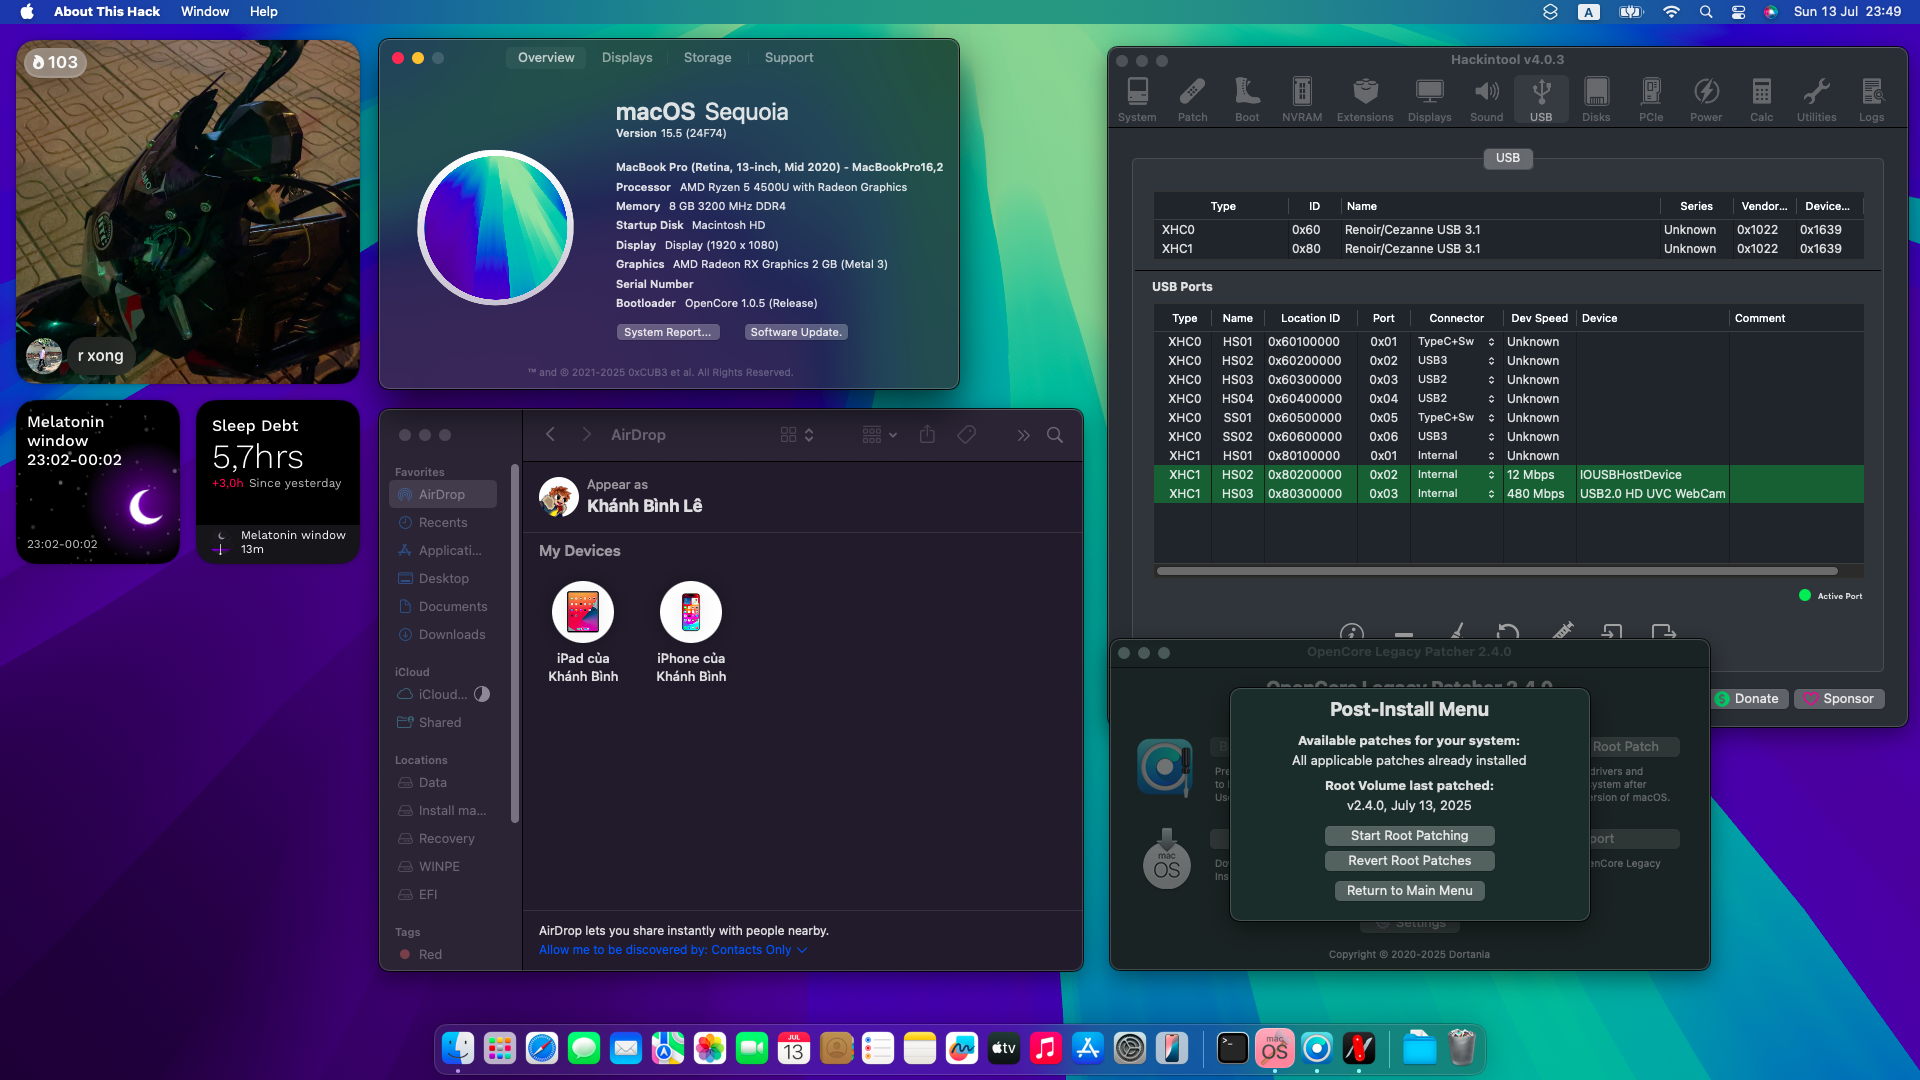
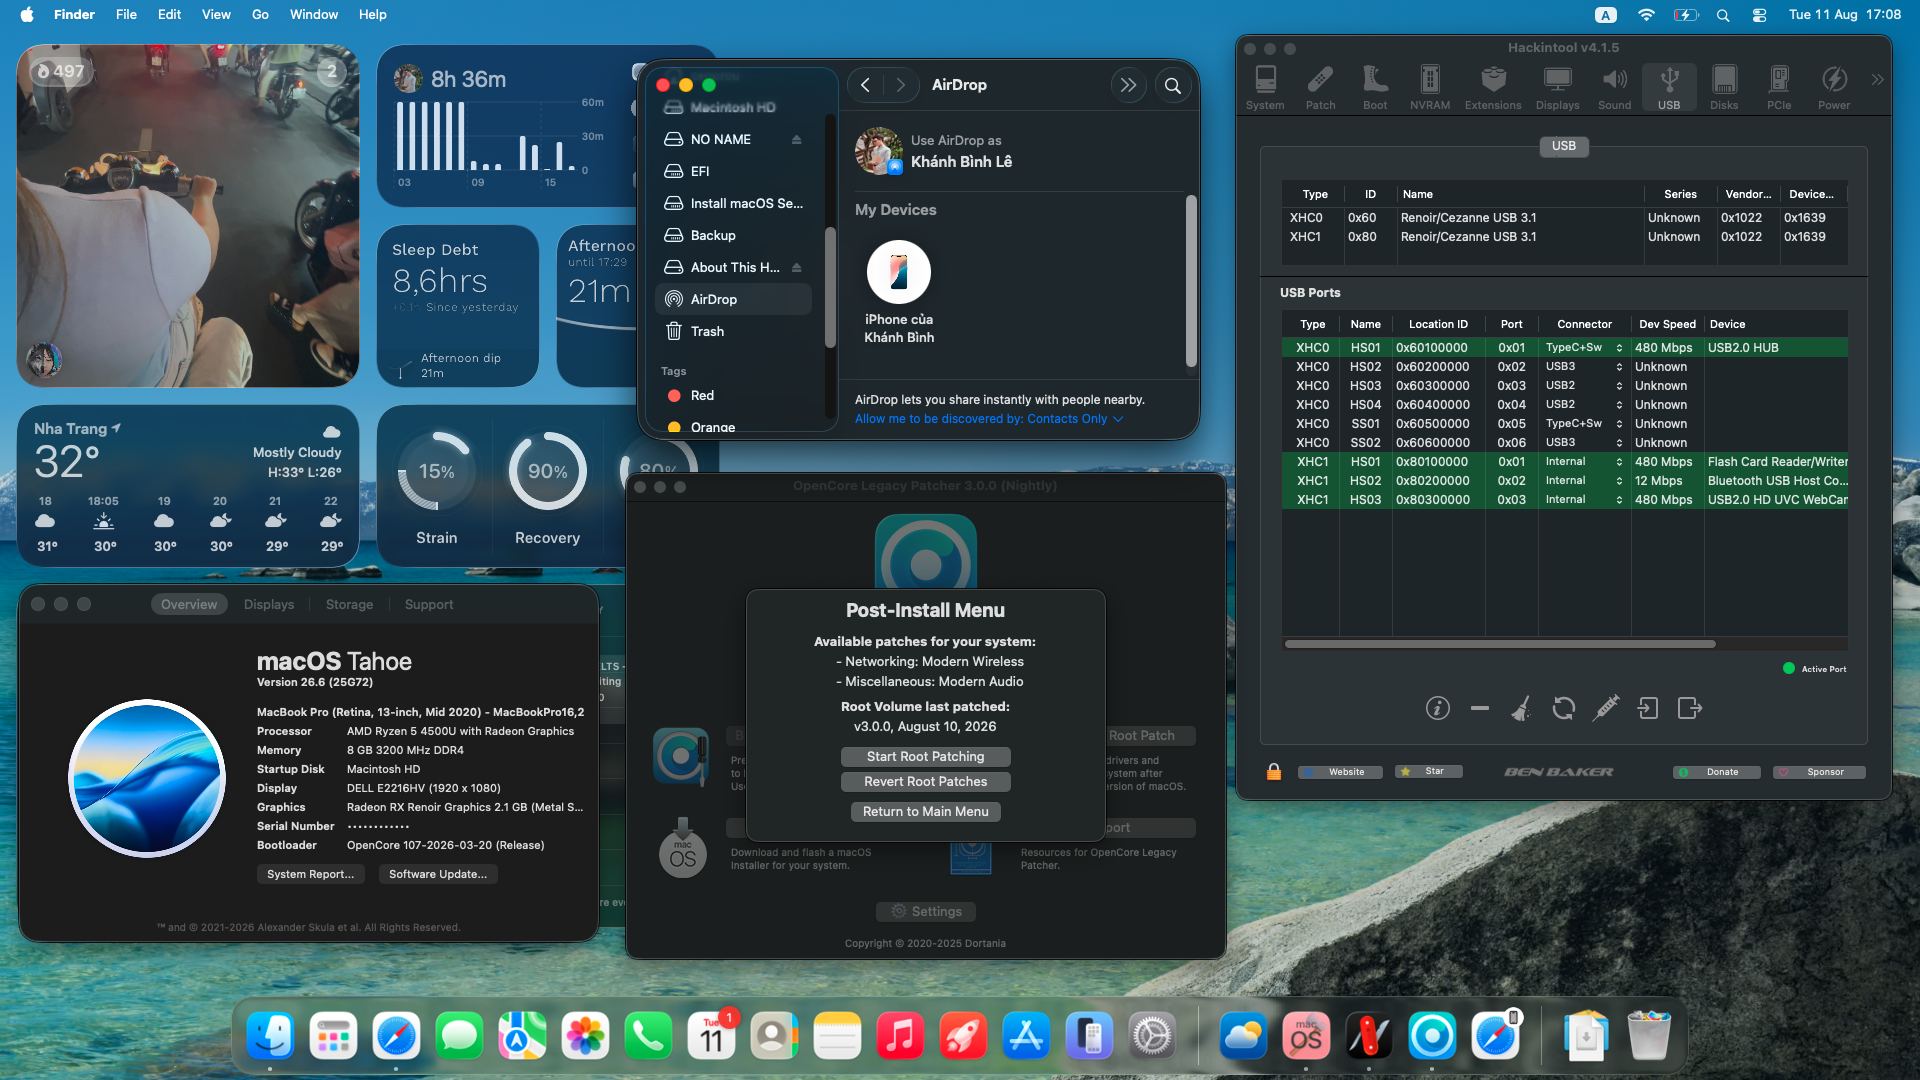
docs: update preview

diff --git a/README.md b/README.md
@@ -29,7 +29,7 @@
 ## Functional
 | Feature | Status |  
 | :--- | :--- |  
-| SMBios | MacBookPro16,3 |  
+| SMBios | MacBookPro16,2 |  
 | CPU Power Management | ✅ Use [ZenTune](https://github.com/HorizonUnix/ZenTune) |
 | iGPU/APU | ✅ Functional |  
 | Audio | ✅ Internal speakers and microphone operational (AppleALC layout 56 for ALC256 with ComboJack); HDMI audio unsupported (Use VoodooHDA instead of AppleALC) |  
@@ -71,4 +71,3 @@
 
 # Preview
 <img src="Img/info.png" alt="About This Mac" title="About This Mac">
-
